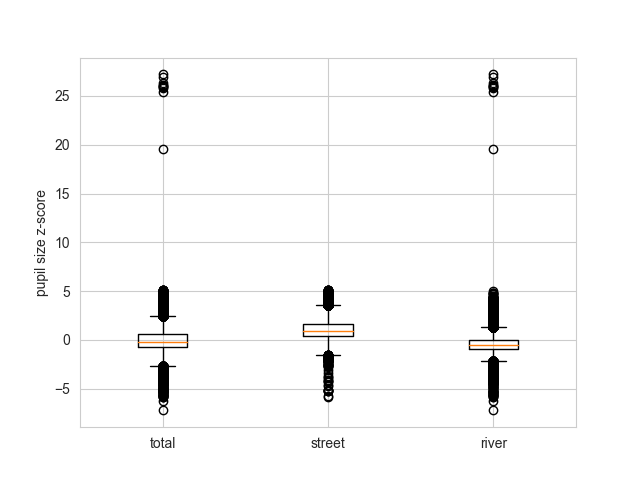
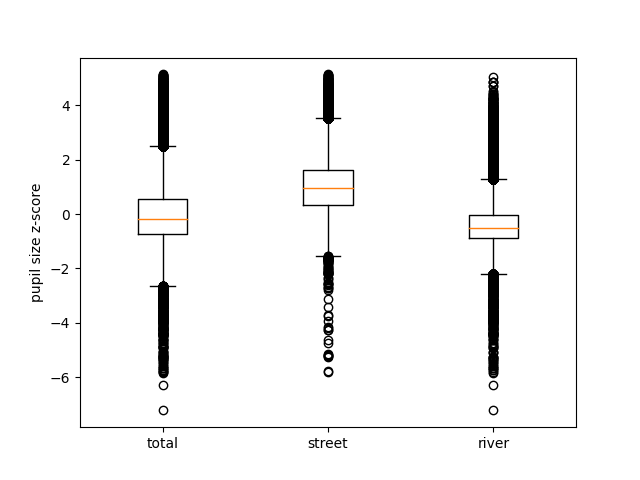
more plot adjustments

diff --git a/analysis/pupil_size/pupil_size.py b/analysis/pupil_size/pupil_size.py
@@ -91,6 +91,7 @@ def plot_pupil_size_for_each_game():
 def plot_pupil_size():
     df = read_data()
     df = df[['region', 'pupil_size_z']].dropna(subset='pupil_size_z')
+    df = df[df['pupil_size_z'] < 15]
 
     # pupil size everywhere
     pupil_size_total = df['pupil_size_z']
@@ -130,10 +131,10 @@ def plot_pupil_size():
     plt.savefig('../thesis/2river_vs_street/4pupil_size/pupil_sizes_violin.png')
     plt.show()
 
+
 def plot_pupil_size_per_region():
     df = read_data()
     df = df[['region', 'pupil_size_z']].dropna(subset='pupil_size_z')
-
     df = df[df['pupil_size_z'] < 15]
 
     # fancy pupil size plot (box plot and violin plot)
@@ -170,7 +171,7 @@ def plot_pupil_size_per_region():
             line.set_mfc('k')  # edge_colors[i])  # facecolor of fliers
             line.set_mec('k')  # edge_colors[i])  # edgecolor of fliers
 
-    sns.violinplot(data=df, ax=ax, y="pupil_size_z", x="region", size=0.5, scale='width', palette=box_colors, inner=None,
+    sns.violinplot(data=df, ax=ax, y="pupil_size_z", x="region", size=0.5, palette=box_colors, inner=None,
                    saturation=0.5)
 
     ax.set_xlabel('')
@@ -183,6 +184,7 @@ def plot_pupil_size_per_region():
 def ttest_pupil_size_street_river():
     df = read_data()
     df = df[['region', 'pupil_size_z']].dropna(subset='pupil_size_z')
+    df = df[df['pupil_size_z'] < 15]
 
     # pupil size on street
     street_mask = df['region'] == 'street'
@@ -202,6 +204,7 @@ def ttest_pupil_size_street_river():
 def kstest_pupil_size_street_river():
     df = read_data()
     df = df[['region', 'pupil_size_z']].dropna(subset='pupil_size_z')
+    df = df[df['pupil_size_z'] < 15]
 
     # pupil size on street
     street_mask = df['region'] == 'street'
@@ -223,27 +226,28 @@ def normalize_pupil_size_subject(subject_df):
 
 def plot_pupil_size_over_score():
     df = read_data()
-    df = df[['subject_id', 'score', 'pupil_size']].dropna(subset='pupil_size')
+    df = df[['subject_id', 'score', 'pupil_size', 'pupil_size_z']].dropna(subset=['pupil_size', 'pupil_size_z'])
+    df = df[df['pupil_size_z'] < 15]
 
     # normalize pupil size between 0 and 1
-    df['pupil_size_normalized'] = df.groupby(['subject_id', 'score']).apply(normalize_pupil_size_subject)
+    df['pupil_size_normalized'] = df.groupby(['subject_id', 'score'])['pupil_size'].apply(normalize_pupil_size_subject)
 
     order_df = df[['subject_id', 'score']].drop_duplicates().sort_values('score')
 
+    sns.set_style('whitegrid')
     fig, ax = plt.subplots(figsize=paper_plot_utils.figsize)
     sns.pointplot(data=df, ax=ax, x='subject_id', y='pupil_size_normalized', join=False, order=order_df['subject_id'])
 
     xlabels = [subject2letter(subj_id.get_text()) for subj_id in ax.get_xticklabels()]
     ax.set_xticklabels(xlabels)
-    ax.set_xlabel('subject score')
-    ax.set_ylabel('normalized pupil size ')
+    ax.set_xlabel('Subject score')
+    ax.set_ylabel('Normalized pupil size ')
     plt.tight_layout()
     plt.savefig('./imgs/pupil_size/pupil_size_over_score.png')
     plt.savefig('../thesis/3experts_vs_novices/pupil_size_over_score.png')
     plt.show()
 
     # linear regression:
-
     df = df[['subject_id', 'score', 'pupil_size_normalized']].groupby(['subject_id', 'score'])[
         'pupil_size_normalized'].agg(['mean', 'sem', 'std'])
     df.columns = ['pupil_size', 'pupil_size_sem', 'pupil_size_std']
@@ -253,7 +257,7 @@ def plot_pupil_size_over_score():
     y = df['pupil_size']
     sem = df['pupil_size_sem']
     std = df['pupil_size_std']
-    res = scipy.stats.linregress(x, y, alternative='less')
+    res = scipy.stats.linregress(x, y, alternative='two-sided')
 
     print('Linear Regression for pupil size per score:')
     print(f'R-squared: {res.rvalue ** 2}')
@@ -282,8 +286,8 @@ def plot_pupil_size_over_score():
     print(f"slope (95%): {res.slope:.6f} +/- {ts * res.stderr:.6f}")
     print(f"intercept (95%): {res.intercept:.6f} +/- {ts * res.intercept_stderr:.6f}")
 
-    plt.errorbar(x, y, yerr=sem, fmt='o', markersize=2, label='data')
-    plt.plot(xx, res.intercept + res.slope * xx, 'r', label='linear regression')
+    plt.errorbar(x, y, yerr=sem, fmt='o', markersize=2, label='Data')
+    plt.plot(xx, res.intercept + res.slope * xx, 'r', label='Linear regression')
     # plt.fill_between(xx, bounds_min, bounds_max, color='r', alpha=0.25, label='95% ci interval')
     plt.xlim(xlim)
     plt.xlabel('subject score')
@@ -296,8 +300,9 @@ def plot_pupil_size_over_score():
 
 
 if __name__ == '__main__':
-    plot_pupil_size_per_region()
-    plot_pupil_size()
     ttest_pupil_size_street_river()
     kstest_pupil_size_street_river()
+    plot_pupil_size()
+    plot_pupil_size_over_score()
+    plot_pupil_size_per_region()
     plot_pupil_size_for_each_game()

diff --git a/analysis/gaze/blink_rates.py b/analysis/gaze/blink_rates.py
@@ -3,6 +3,7 @@ from itertools import product
 import numpy as np
 import pandas as pd
 import scipy
+import matplotlib as mpl
 from matplotlib import pyplot as plt
 import seaborn as sns
 
@@ -82,17 +83,25 @@ def plot_blink_rates():
     plt.savefig('../thesis/2river_vs_street/3blink_rate/blink_rates_box.png')
     plt.show()
 
+
+def plot_blink_rates_fancy():
     # fancy blink rate plot (box plot and violin plot)
-    # TODO
-    df = df[(df['region'] == 'street') | (df['region'] == 'river')]
+    df = pd.read_csv('../data/blink_rates.csv')
+    df = df.drop(columns=['blink_rate'])
+
+    df = pd.melt(df, id_vars=['subject_id', 'game_difficulty', 'world_number'], value_vars=['blink_rate_street', 'blink_rate_river'])
+    df = df.replace({'blink_rate_river': 'river', 'blink_rate_street': 'street'})
+    df = df.rename(columns={'variable': 'region', 'value': 'blink_rate'})
+    df = df.dropna()
+    print(df['region'].value_counts())
 
     edge_colors = [paper_plot_utils.C0, paper_plot_utils.C1]
     box_colors = [paper_plot_utils.C0_soft, paper_plot_utils.C1_soft]
 
     # create boxplot
-    sns.set_style("whitegrid")
+    sns.set_style('whitegrid')
     fig, ax = plt.subplots(figsize=paper_plot_utils.figsize)
-    sns.boxplot(data=df, ax=ax, y="pupil_size_z", x="region", width=0.2, linewidth=1.5,
+    sns.boxplot(data=df, ax=ax, y='blink_rate', x='region', width=0.2, linewidth=1.5,
                 showfliers=False,
                 # flierprops=dict(markersize=2),
                 showmeans=True, meanline=True,
@@ -116,13 +125,12 @@ def plot_blink_rates():
             line.set_mfc('k')  # edge_colors[i])  # facecolor of fliers
             line.set_mec('k')  # edge_colors[i])  # edgecolor of fliers
 
-    sns.violinplot(data=df, ax=ax, y="pupil_size_z", x="region", size=0.5, scale='width', palette=box_colors, inner=None,
+    sns.violinplot(data=df, ax=ax, y='blink_rate', x='region', size=0.5, palette=box_colors, inner=None,
                    saturation=0.5)
 
     ax.set_xlabel('')
-    ax.set_ylabel('Pupil size z-score')
-    plt.savefig('./imgs/gaze/fixations/fixations_per_position/fixation_distance_per_region_box.png')
-    plt.savefig('../thesis/2river_vs_street/pupil_size_per_region_box.png')
+    ax.set_ylabel('Blink rate [$s^{-1}$]')
+    plt.savefig('../thesis/2river_vs_street/3blink_rate/blink_rates_box.png')
     plt.show()
 
 
@@ -135,7 +143,7 @@ def ttest_blink_rate_street_river():
 
     # perform (Welch's) t-test
     # t test euclidean distances:
-    ttest_result = scipy.stats.ttest_ind(blink_rates_river, blink_rates_street,  alternative='greater')
+    ttest_result = scipy.stats.ttest_ind(blink_rates_river, blink_rates_street, alternative='greater')
     print(ttest_result)
     print('dof=', len(blink_rates_street) - 1 + len(blink_rates_river) - 1)
 
@@ -199,12 +207,12 @@ def plot_blink_rate_over_score():
 
     fig, ax = plt.subplots(figsize=paper_plot_utils.figsize)
     # plt.scatter(x, y, label='data')
-    plt.errorbar(x, y, yerr=sem, fmt='o', markersize=2, label='data')
-    plt.plot(xx, res.intercept + res.slope * xx, 'r', label='linReg')
+    plt.errorbar(x, y, yerr=sem, fmt='o', markersize=2, label='Data')
+    plt.plot(xx, res.intercept + res.slope * xx, 'r', label='Linear regression')
     # plt.fill_between(xx, bounds_min, bounds_max, color='r', alpha=0.25, label='95% ci interval')
     plt.xlim(xlim)
-    plt.xlabel('score')
-    plt.ylabel('blinking rate [$s^{-1}$]')
+    plt.xlabel('Score')
+    plt.ylabel('Blinking rate [$s^{-1}$]')
     plt.legend()
     plt.tight_layout()
     plt.savefig('./imgs/blinks/blink_rate_per_score_w_lin_reg.png')
@@ -225,7 +233,8 @@ def plot_blink_rate_over_level_score():
 
     fig, ax = plt.subplots(figsize=paper_plot_utils.figsize)
     # plt.scatter(x, y, label='data')
-    sns.scatterplot(df, x='standardized_level_score', y='blink_rate', hue='subject_id', ax=ax)   # TODO investigate exponential relation? --> single scatter plots for each subject?
+    sns.scatterplot(df, x='standardized_level_score', y='blink_rate', hue='subject_id',
+                    ax=ax)  # TODO investigate exponential relation? --> single scatter plots for each subject?
     plt.legend([], [], frameon=False)
     plt.tight_layout()
     plt.savefig('./imgs/blinks/blink_rate_per_level_score_w_lin_reg_per_subject.png')
@@ -278,6 +287,7 @@ def plot_blink_rate_over_level_score():
 
 
 if __name__ == '__main__':
+    plot_blink_rates_fancy()
     # save_blink_rates()
     plot_blink_rate_over_score()
     plot_blink_rate_over_level_score()

diff --git a/analysis/gaze/fixations.py b/analysis/gaze/fixations.py
@@ -593,8 +593,8 @@ def plot_mfd_per_score():
 
     fig, ax = plt.subplots(figsize=paper_plot_utils.figsize)
     # plt.scatter(x, y, label='data')
-    plt.errorbar(x, y, yerr=sem, fmt='o', markersize=2, label='data')  # TODO sem or std for errorbar?
-    plt.plot(xx, res.intercept + res.slope * xx, 'r', label='linear regression')
+    plt.errorbar(x, y, yerr=sem, fmt='o', markersize=2, label='Data')
+    plt.plot(xx, res.intercept + res.slope * xx, 'r', label='Linear regression')
     # plt.fill_between(xx, bounds_min, bounds_max, color='r', alpha=0.25, label='95% ci interval')
     plt.xlim(xlim)
     plt.xlabel('Subject score')
@@ -829,8 +829,11 @@ def plot_fixation_KDE_relative_to_player():
     df['weighted_x_distance'] = df.groupby(['subject_id', 'game_difficulty', 'world_number']).apply(calc_weighted_x_distance).values
     df['weighted_y_distance'] = df.groupby(['subject_id', 'game_difficulty', 'world_number']).apply(calc_weighted_y_distance).values
 
+    print(df['region'].value_counts())
+
     lim = 0.2
-    g = sns.JointGrid(data=df, x="weighted_x_distance", y="weighted_y_distance", hue='region', space=0)
+    palette = {'street': paper_plot_utils.red_kde, 'river': paper_plot_utils.blue_kde}
+    g = sns.JointGrid(data=df, x="weighted_x_distance", y="weighted_y_distance", hue='region', space=0, palette=palette)
     g.refline(x=0, y=0)
     g.plot_joint(sns.kdeplot)
     g.plot_marginals(sns.histplot, binwidth=0.005, multiple='stack')
@@ -840,7 +843,7 @@ def plot_fixation_KDE_relative_to_player():
 
     plt.tight_layout()
     plt.savefig('./imgs/gaze/fixations/weighted_gaze_position_relative_to_player_kde.png')
-    plt.savefig('../thesis/2river_vs_street/weighted_gaze_position_relative_to_player_kde.png')
+    plt.savefig('../thesis/2river_vs_street/2kde/weighted_gaze_position_relative_to_player_kde.png')
     plt.show()
     #
     # # do it for every target position
@@ -1064,6 +1067,7 @@ def print_n_fixations_per_region():
 
 
 if __name__ == '__main__':
+    plot_fixation_KDE_relative_to_player()
     print_n_fixations_per_region()
     plot_fixation_heatmap()
     plot_fixations_on_target_per_lane()
@@ -1086,8 +1090,6 @@ if __name__ == '__main__':
 
     # plot_gaze_y_position_relative_to_player()
     print_fixations_on_target_for_region()
-    plot_weighted_fixations_relative_to_player_per_fixated_object()  # TODO run
-    plot_fixation_KDE_relative_to_player()
     plot_gaze_x_position_relative_to_player()
 
     # # and for every subject:

diff --git a/analysis/performance/performances.py b/analysis/performance/performances.py
@@ -66,11 +66,11 @@ def plot_performance_per_difficulty():
     plt.savefig('./imgs/performance/game_endings.png')
     plt.show()
 
-    fig, ax = plt.subplots(figsize=paper_plot_utils.figsize)
-
+    fig, ax = plt.subplots(figsize=(6, 10))
     g = sns.displot(ax=ax, data=last_time_steps, y='game_difficulty', hue='game_status', stat='percent', multiple='stack', kind='hist',
                     palette=palette, hue_order=hue_order, edgecolor='k')  # TODO bar size
     g.set_axis_labels('Trial outcomes', 'Trial difficulty')
+    g.fig.set_size_inches(8, 2)
 
     # legend title
     g._legend.set_title('Trial outcome')
@@ -78,6 +78,14 @@ def plot_performance_per_difficulty():
     new_labels = ['Won', 'Timed out', 'Lost']
     for t, l in zip(g._legend.texts, new_labels):
         t.set_text(l)
+
+    # sns.histplot(ax=ax, data=last_time_steps, y='game_difficulty', hue='game_status', stat='percent', multiple='fill',
+    #                 palette=palette, hue_order=hue_order, edgecolor='k')  # TODO bar size
+    # g.set_axis_labels('Trial outcomes', 'Trial difficulty')
+    # ax.set_xlabel('Trial outcomes')
+    # ax.set_ylabel('Trial difficulty')
+    #
+    # sns.move_legend(ax, "center left", bbox_to_anchor=(1, 1), title='Trial outcomes', labels=['Won', 'Timed Out', 'Lost'])
 
     # plt.legend(title='Trial outcome', labels=['Won', 'Timed out', 'Lost'])
     plt.savefig('./imgs/performance/game_endings_stacked.png')
@@ -180,6 +188,9 @@ def histogram_over_avg_trial_times():
     print('Completion Time Mean: ', game_durations_won['time'].mean())
     print('Completion Time Var: ', game_durations_won['time'].var())
     print('Completion Time Median: ', game_durations_won['time'].median())
+
+    print('Avg Trial Times:\n')
+    print(game_durations_won[['game_difficulty', 'time']].groupby('game_difficulty').agg(['mean', 'median', 'var']))
 
     game_durations_won.replace('normal', 'medium', inplace=True)
     game_durations_won.rename(columns={'game_difficulty': 'Level Difficulty'}, inplace=True)
@@ -360,6 +371,8 @@ def classify_loss_cause(region, last_action):
 
 
 if __name__ == '__main__':
+    plot_performance_per_difficulty()
+    histogram_over_avg_trial_times()
     print_average_game_endings()
     plot_last_lanes_lost_games()
     # save_performance_stats()

diff --git a/analysis/create_all_plots.py b/analysis/create_all_plots.py
@@ -4,7 +4,7 @@ import seaborn as sns
 
 sns.set_context(rc={'patch.linewidth': 0.7})
 
-from analysis.gaze.blink_rates import plot_blink_rate_over_level_score, plot_blink_rate_over_score, plot_blink_rates
+from analysis.gaze.blink_rates import plot_blink_rate_over_level_score, plot_blink_rate_over_score, plot_blink_rates, plot_blink_rates_fancy
 from analysis.gaze.fixations import plot_MFD_diff_river_street_over_score, plot_fixation_KDE_relative_to_player, \
     plot_fixation_heatmap, plot_mfd_heatmap, plot_mfd_per_level_score, plot_mfd_per_region, plot_mfd_per_score, \
     print_fixations_on_target_for_region
@@ -14,7 +14,7 @@ from analysis.performance.performances import histogram_over_avg_trial_times, pl
     print_average_game_endings
 from analysis.player.player_position_heatmap import plot_player_position_heatmap, plot_player_position_heatmap_per_target_position
 from analysis.player.river_section_entrance import plot_entrance_of_river_section
-from analysis.pupil_size.pupil_size import plot_pupil_size
+from analysis.pupil_size.pupil_size import plot_pupil_size, plot_pupil_size_over_score, plot_pupil_size_per_region
 from analysis.run_statistical_tests import run_tests
 
 
@@ -92,10 +92,18 @@ if __name__ == '__main__':
     sys.stdout = orig_stdout
     f.close()
 
+    try_except_plot(plot_blink_rates_fancy)
+
     # pupil size
     f = open('../thesis/2river_vs_street/pupil_size.txt', 'w+')
     sys.stdout = f
-    try_except_plot(plot_pupil_size)
+    try_except_plot(plot_pupil_size_per_region)
+    sys.stdout = orig_stdout
+    f.close()
+
+    f = open('../thesis/3experts_vs_novices/pupil_size_over_score.txt', 'w+')
+    sys.stdout = f
+    try_except_plot(plot_pupil_size_over_score)
     sys.stdout = orig_stdout
     f.close()
 

diff --git a/analysis/player/river_section_entrance.py b/analysis/player/river_section_entrance.py
@@ -31,12 +31,15 @@ def get_river_entrances():
 
 def plot_entrance_of_river_section():
     entrances = get_river_entrances()
+
+    sns.set_style('whitegrid')
     x = entrances[['player_x_field', 'target_position']]
-    ax = sns.histplot(data=x, x='player_x_field', hue='target_position', stat='proportion', multiple='stack', discrete=True)
+    ax = sns.histplot(data=x, x='player_x_field', hue='target_position', stat='count', multiple='stack', discrete=True)
 
     ax.set_xlabel('x')
     ax.set_ylabel('how often was river section entered at x')
-    plt.legend(title='Target position', loc='upper right', labels=['left', 'center', 'right'])
+    ax.set_xticks(range(0, 21))
+    plt.legend(title='Target position', loc='upper right', labels=['right', 'center', 'left'])
     plt.savefig('./imgs/player_position/entrances_river_x_by_target_position.png')
     plt.savefig('../thesis/1descriptive/2position/river_entrances_OPT.png')
     plt.tight_layout()

diff --git a/analysis/player/player_position.py b/analysis/player/player_position.py
@@ -1,0 +1,20 @@
+from analysis.data_utils import read_data
+
+
+def print_avg_time_on_middle_lane():
+    df = read_data()
+    middle_lane_times = df.groupby(['subject_id', 'game_difficulty', 'world_number']).apply(calc_portion_on_middle_lane)
+    print(middle_lane_times)
+    print('Average: ', middle_lane_times.mean())
+    print('Var:', middle_lane_times.var())
+    print('Median:', middle_lane_times.median())
+
+
+def calc_portion_on_middle_lane(game_df):
+    samples = game_df.shape[0]
+    middle_lane_samples = game_df[game_df['region'] == 'middle'].shape[0]
+    return middle_lane_samples / samples
+
+
+if __name__ == '__main__':
+    print_avg_time_on_middle_lane()

diff --git a/analysis/paper_plot_utils.py b/analysis/paper_plot_utils.py
@@ -7,8 +7,11 @@ blue = C0 = matplotlib.cm.get_cmap('coolwarm')(0.05)
 red = C1 = matplotlib.cm.get_cmap('coolwarm')(0.95)
 white = '#F7F7F7'
 
-C0_soft = (C0[0], C0[1], C0[2], soft_color_alpha)
-C1_soft = (C1[0], C1[1], C1[2], soft_color_alpha)
+blue_kde = (C0[0], C0[1], C0[2], 0.75)
+red_kde = (C1[0], C1[1], C1[2], 0.75)
+
+blue_soft = C0_soft = (C0[0], C0[1], C0[2], soft_color_alpha)
+red_soft = C1_soft = (C1[0], C1[1], C1[2], soft_color_alpha)
 
 C0_hard = matplotlib.cm.get_cmap('coolwarm')(0.0)
 C1_hard = matplotlib.cm.get_cmap('coolwarm')(1.0)
